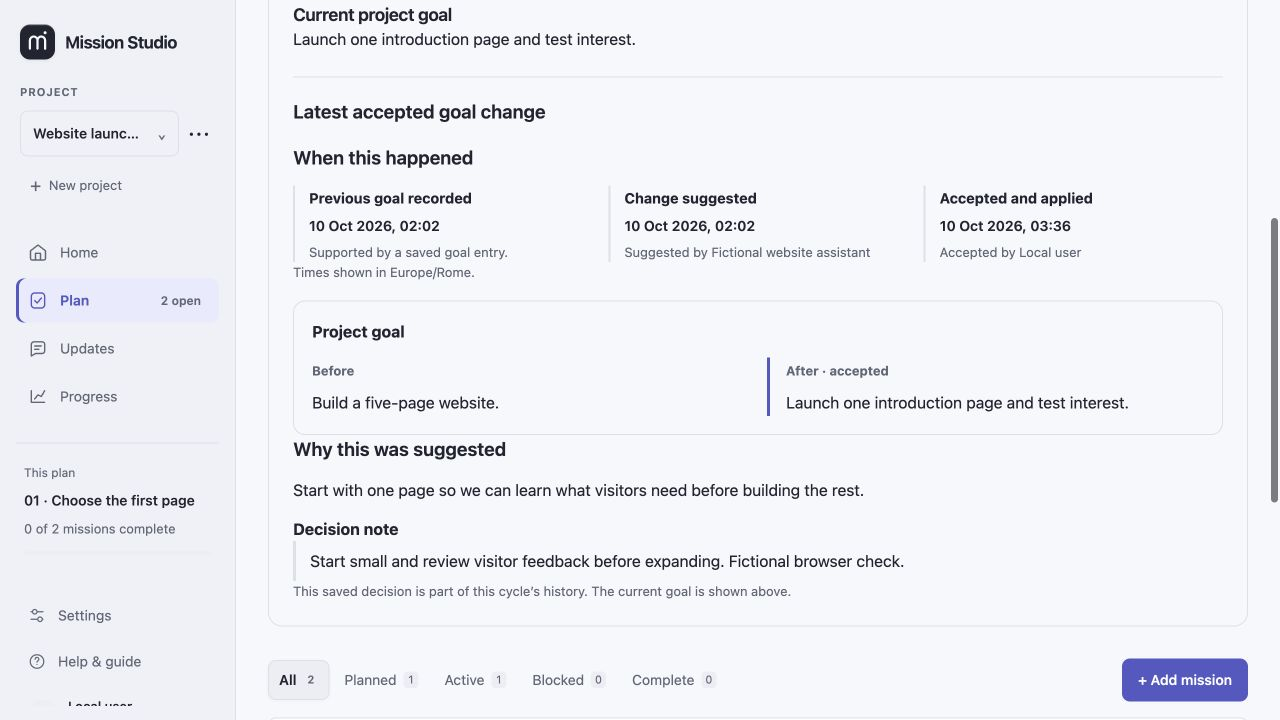
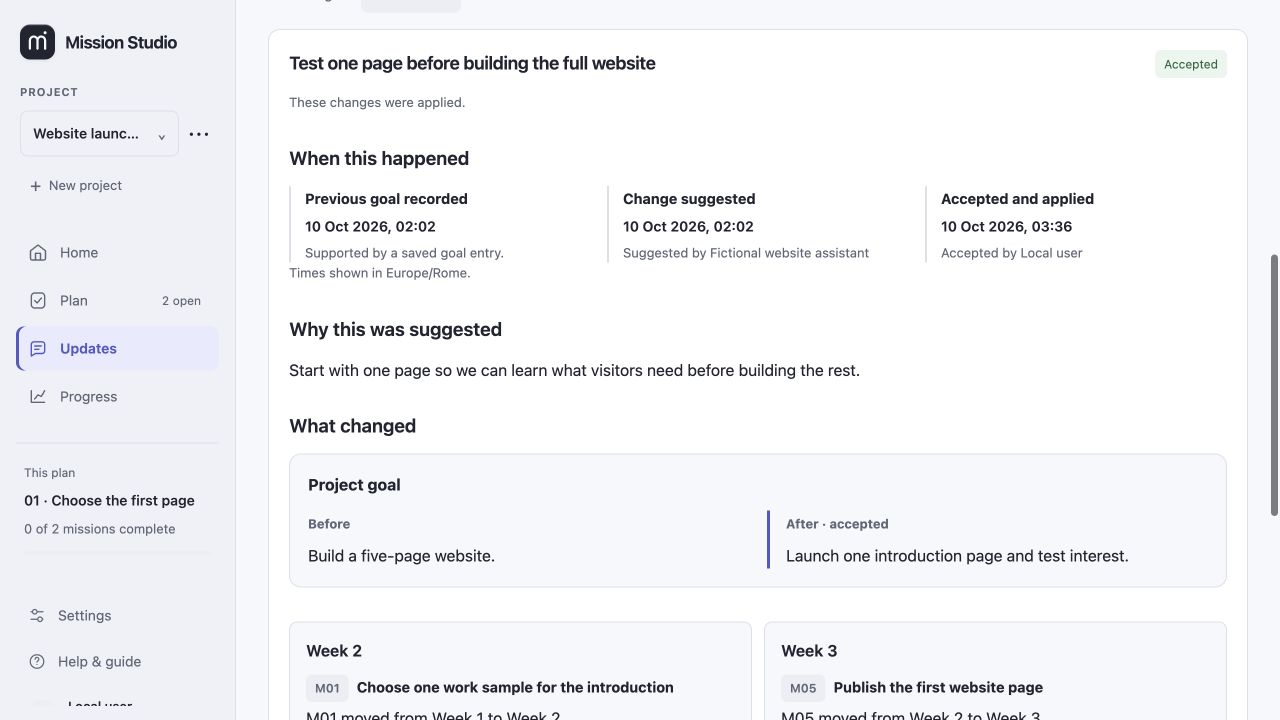
Keep Plan focused and link to goal decisions

diff --git a/docs/GUIDE.md b/docs/GUIDE.md
@@ -59,7 +59,7 @@ Automatic date proposals are limited calendar adjustments within an active cycle
 
 ## Follow a goal change over time
 
-The plan shows the **current goal** and the **latest accepted goal change** together. The accepted change includes its previous and accepted goals, the full recorded reason and its chronology:
+**Plan** shows the **current goal** with a **View goal changes** link. Follow it to **Updates → Suggestions → Decisions** for the saved comparisons, reasons and timelines. An accepted goal change includes its previous and accepted goals, the full recorded reason and its chronology:
 
 - **Previous goal recorded:** the saved date when reliable history supports it. If that date is unavailable, it is shown as unknown.
 - **Change suggested:** when the suggestion was recorded and its recorded source.
@@ -67,7 +67,7 @@ The plan shows the **current goal** and the **latest accepted goal change** toge
 
 Dates include a clear timezone. A suggestion's date is not used as the previous goal's original date, and a pending suggestion has no acceptance date. Source and decision-maker labels are recorded information; they do not authenticate a person or prove independent review.
 
-![A fictional goal change with its reason and separate chronological dates](../assets/goal-history.png)
+![A fictional accepted goal change in Suggestions → Decisions with its reason and separate chronological dates](../assets/goal-history.png)
 
 This is the history of an accepted suggestion, not a complete history of every goal edit. A later direct edit or restore may leave the current goal different from that accepted goal. The historical reason remains attached to the accepted change; it is not presented as the reason for a later goal. Direct edits do not require a suggestion reason.
 

diff --git a/README.md b/README.md
@@ -40,9 +40,9 @@ Screenshots show the working local app with fictional example data. They are dem
 
 ## See what changed and why
 
-The plan keeps the current goal visible alongside the latest accepted goal change: the previous goal, the accepted goal and the recorded reason. Suggestion and acceptance dates are shown separately, with their recorded sources and a clear timezone. The previous goal's recorded date appears when saved history supports it; otherwise its date is shown as unknown.
+Plan keeps the current goal in view. Choose **View goal changes** to open **Updates → Suggestions → Decisions**, where accepted changes retain the previous goal, the accepted goal and the recorded reason. Suggestion and acceptance dates are shown separately, with their recorded sources and a clear timezone. The previous goal's recorded date appears when saved history supports it; otherwise its date is shown as unknown.
 
-![A fictional goal change showing the previous and accepted goals, the reason and the dated suggestion and decision](assets/goal-history.png)
+![A fictional accepted goal change in Suggestions → Decisions, showing the previous and accepted goals, the reason and the dated timeline](assets/goal-history.png)
 
 Moving a mission to another week is distinguished from changing its goal or completion criteria. You can also filter for **Planned** work and see which next actions still need a decision. Saving a progress note keeps an outstanding decision open until you explicitly settle it.
 

diff --git a/docs/ROADMAP.md b/docs/ROADMAP.md
@@ -11,7 +11,7 @@ Updated 10 October 2026. This page separates the working local app from ideas th
 - Saved results, evidence references, reviews, blockers and activity history.
 - Assistant proposals and bounded automatic date proposals for owner review.
 - Previous and proposed goal comparisons with the full recorded reason, distinguishing schedule changes from changes to the work itself.
-- The current goal alongside its latest accepted change, with separate suggestion and acceptance dates, recorded sources and a clear timezone. An earlier goal's recorded date is shown only when supported by saved history; missing dates stay unknown.
+- The current goal on Plan with a link to goal changes in Suggestions → Decisions. Accepted changes retain their before/after comparison, reason, separate suggestion and acceptance dates, recorded sources and a clear timezone. An earlier goal's recorded date is shown only when supported by saved history; missing dates stay unknown.
 - A visible Planned filter and explicit next-action decisions, separate from evidence-review acceptance. Progress notes keep outstanding decisions open.
 - Local factual weekly-summary drafts, reviewed before saving.
 - Shared UI/command storage with revision checks and recoverable snapshots.
